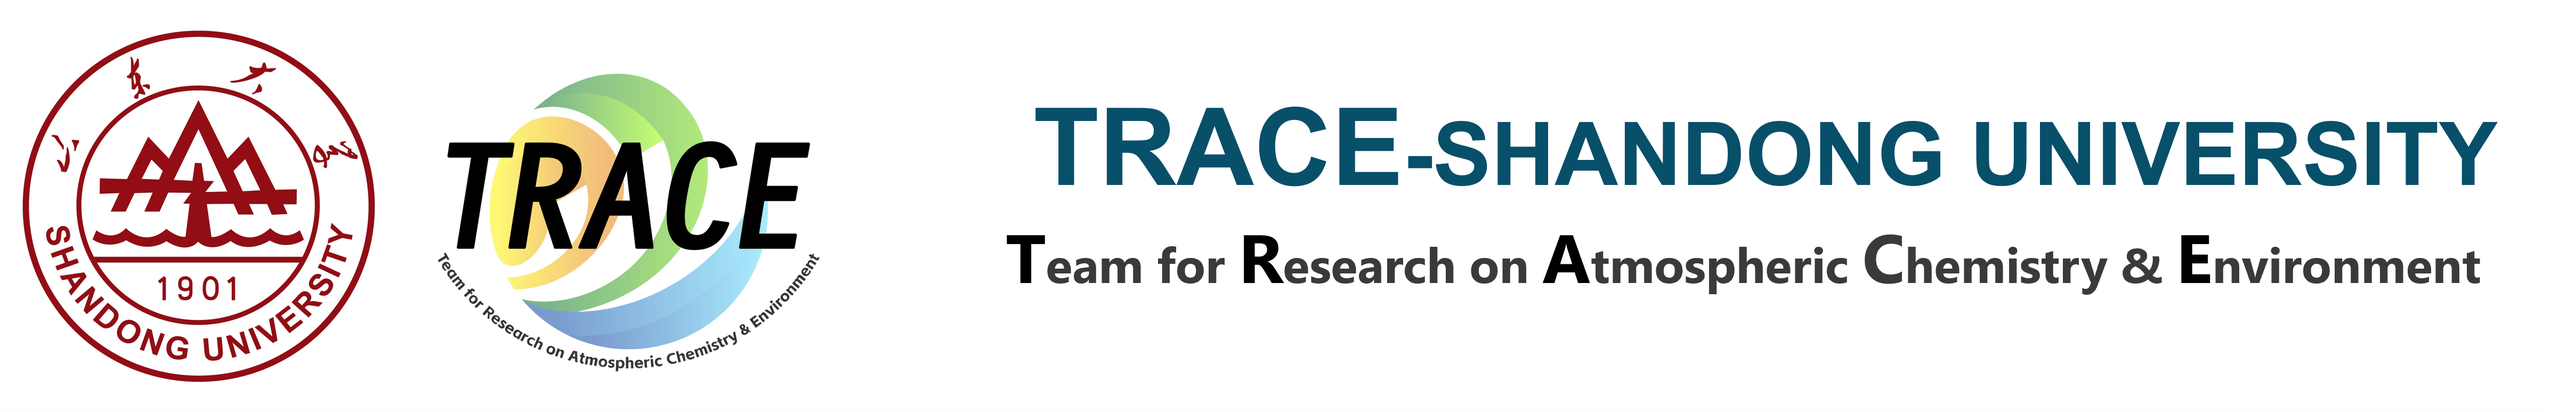
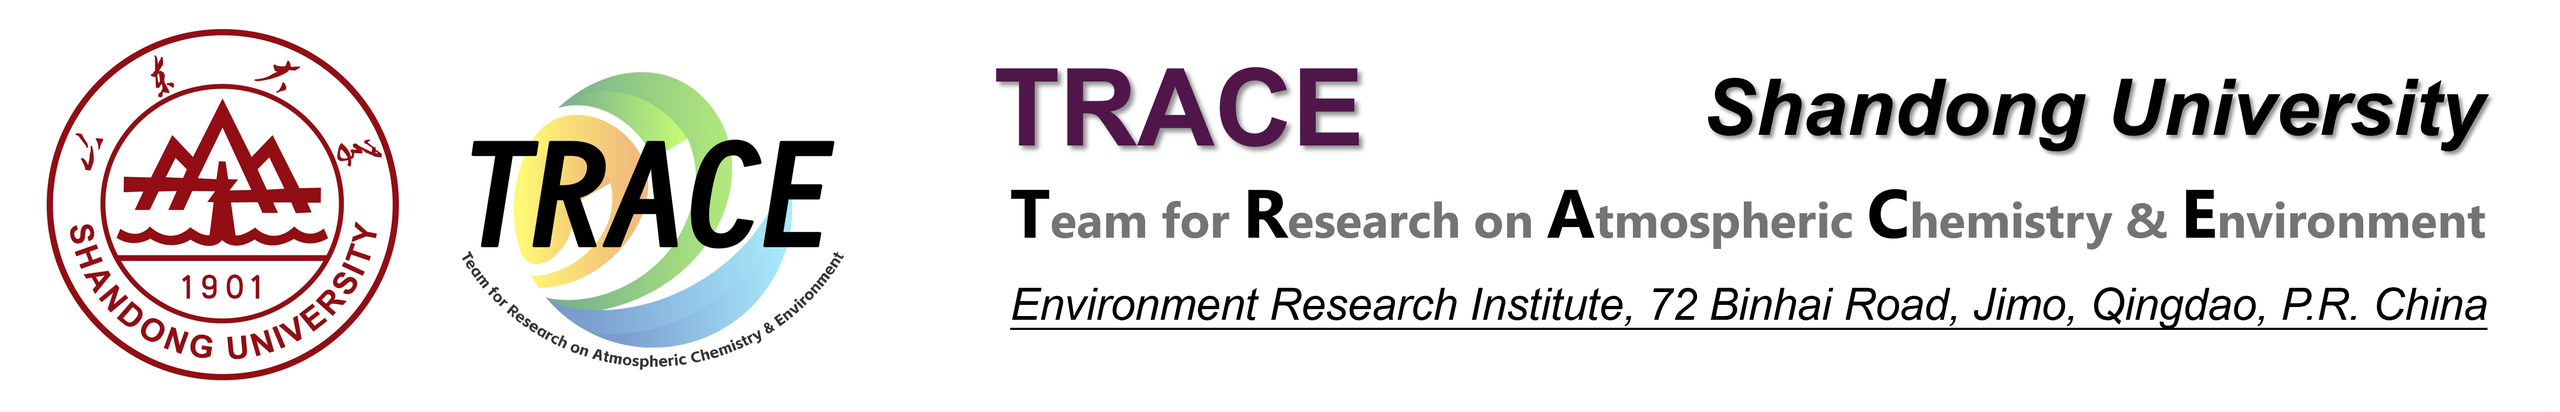
Refresh the shared TRACE header image

Changed region(s): [[0.3748, 0.1552, 0.9996, 0.8072], [0.0, 0.0621, 0.3436, 0.9314]]

diff --git a/people/alumni/index.html b/people/alumni/index.html
@@ -13,7 +13,7 @@
   <header class="site-header">
     <div class="wrap masthead">
       <a class="brand" href="../../">
-        <img src="../../assets/head.png" alt="TRACE at Shandong University. Team for Research on Atmospheric Chemistry &amp; Environment" width="4832" height="773">
+        <img src="../../assets/head.png?v=29a5ab8b" alt="TRACE at Shandong University. Team for Research on Atmospheric Chemistry &amp; Environment. Environment Research Institute, 72 Binhai Road, Jimo, Qingdao, China." width="4802" height="773">
       </a>
     </div>
     <nav class="wrap site-nav" aria-label="Main navigation">

diff --git a/people/faculty/index.html b/people/faculty/index.html
@@ -13,7 +13,7 @@
   <header class="site-header">
     <div class="wrap masthead">
       <a class="brand" href="../../">
-        <img src="../../assets/head.png" alt="TRACE at Shandong University. Team for Research on Atmospheric Chemistry &amp; Environment" width="4832" height="773">
+        <img src="../../assets/head.png?v=29a5ab8b" alt="TRACE at Shandong University. Team for Research on Atmospheric Chemistry &amp; Environment. Environment Research Institute, 72 Binhai Road, Jimo, Qingdao, China." width="4802" height="773">
       </a>
     </div>
     <nav class="wrap site-nav" aria-label="Main navigation">

diff --git a/people/principal-investigator/index.html b/people/principal-investigator/index.html
@@ -13,7 +13,7 @@
   <header class="site-header">
     <div class="wrap masthead">
       <a class="brand" href="../../">
-        <img src="../../assets/head.png" alt="TRACE at Shandong University. Team for Research on Atmospheric Chemistry &amp; Environment" width="4832" height="773">
+        <img src="../../assets/head.png?v=29a5ab8b" alt="TRACE at Shandong University. Team for Research on Atmospheric Chemistry &amp; Environment. Environment Research Institute, 72 Binhai Road, Jimo, Qingdao, China." width="4802" height="773">
       </a>
     </div>
     <nav class="wrap site-nav" aria-label="Main navigation">

diff --git a/people/team-member/index.html b/people/team-member/index.html
@@ -13,7 +13,7 @@
   <header class="site-header">
     <div class="wrap masthead">
       <a class="brand" href="../../">
-        <img src="../../assets/head.png" alt="TRACE at Shandong University. Team for Research on Atmospheric Chemistry &amp; Environment" width="4832" height="773">
+        <img src="../../assets/head.png?v=29a5ab8b" alt="TRACE at Shandong University. Team for Research on Atmospheric Chemistry &amp; Environment. Environment Research Institute, 72 Binhai Road, Jimo, Qingdao, China." width="4802" height="773">
       </a>
     </div>
     <nav class="wrap site-nav" aria-label="Main navigation">

diff --git a/publication/index.html b/publication/index.html
@@ -13,7 +13,7 @@
   <header class="site-header">
     <div class="wrap masthead">
       <a class="brand" href="../">
-        <img src="../assets/head.png" alt="TRACE at Shandong University. Team for Research on Atmospheric Chemistry &amp; Environment" width="4832" height="773">
+        <img src="../assets/head.png?v=29a5ab8b" alt="TRACE at Shandong University. Team for Research on Atmospheric Chemistry &amp; Environment. Environment Research Institute, 72 Binhai Road, Jimo, Qingdao, China." width="4802" height="773">
       </a>
     </div>
     <nav class="wrap site-nav" aria-label="Main navigation">

diff --git a/research/index.html b/research/index.html
@@ -13,7 +13,7 @@
   <header class="site-header">
     <div class="wrap masthead">
       <a class="brand" href="../">
-        <img src="../assets/head.png" alt="TRACE at Shandong University. Team for Research on Atmospheric Chemistry &amp; Environment" width="4832" height="773">
+        <img src="../assets/head.png?v=29a5ab8b" alt="TRACE at Shandong University. Team for Research on Atmospheric Chemistry &amp; Environment. Environment Research Institute, 72 Binhai Road, Jimo, Qingdao, China." width="4802" height="773">
       </a>
     </div>
     <nav class="wrap site-nav" aria-label="Main navigation">

diff --git a/index.html b/index.html
@@ -13,7 +13,7 @@
   <header class="site-header">
     <div class="wrap masthead">
       <a class="brand" href="./">
-        <img src="./assets/head.png" alt="TRACE at Shandong University. Team for Research on Atmospheric Chemistry &amp; Environment" width="4832" height="773">
+        <img src="./assets/head.png?v=29a5ab8b" alt="TRACE at Shandong University. Team for Research on Atmospheric Chemistry &amp; Environment. Environment Research Institute, 72 Binhai Road, Jimo, Qingdao, China." width="4802" height="773">
       </a>
     </div>
     <nav class="wrap site-nav" aria-label="Main navigation">
